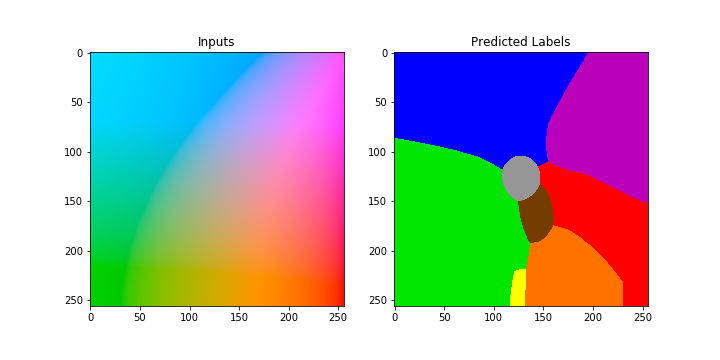
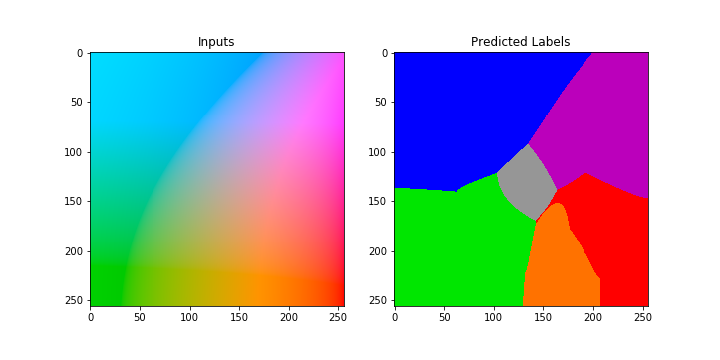
working set

diff --git a/ex7/code/colour_bayes.py b/ex7/code/colour_bayes.py
@@ -105,7 +105,9 @@ def main():
     Y_predicted_lab = model_lab.predict(X_test)
     print(accuracy_score(Y_test, Y_predicted_lab))
     
-    
+
+
+    plot_predictions(model_rgb)
     plt.savefig('predictions_rgb.png')
     plot_predictions(model_lab)
     plt.savefig('predictions_lab.png')
